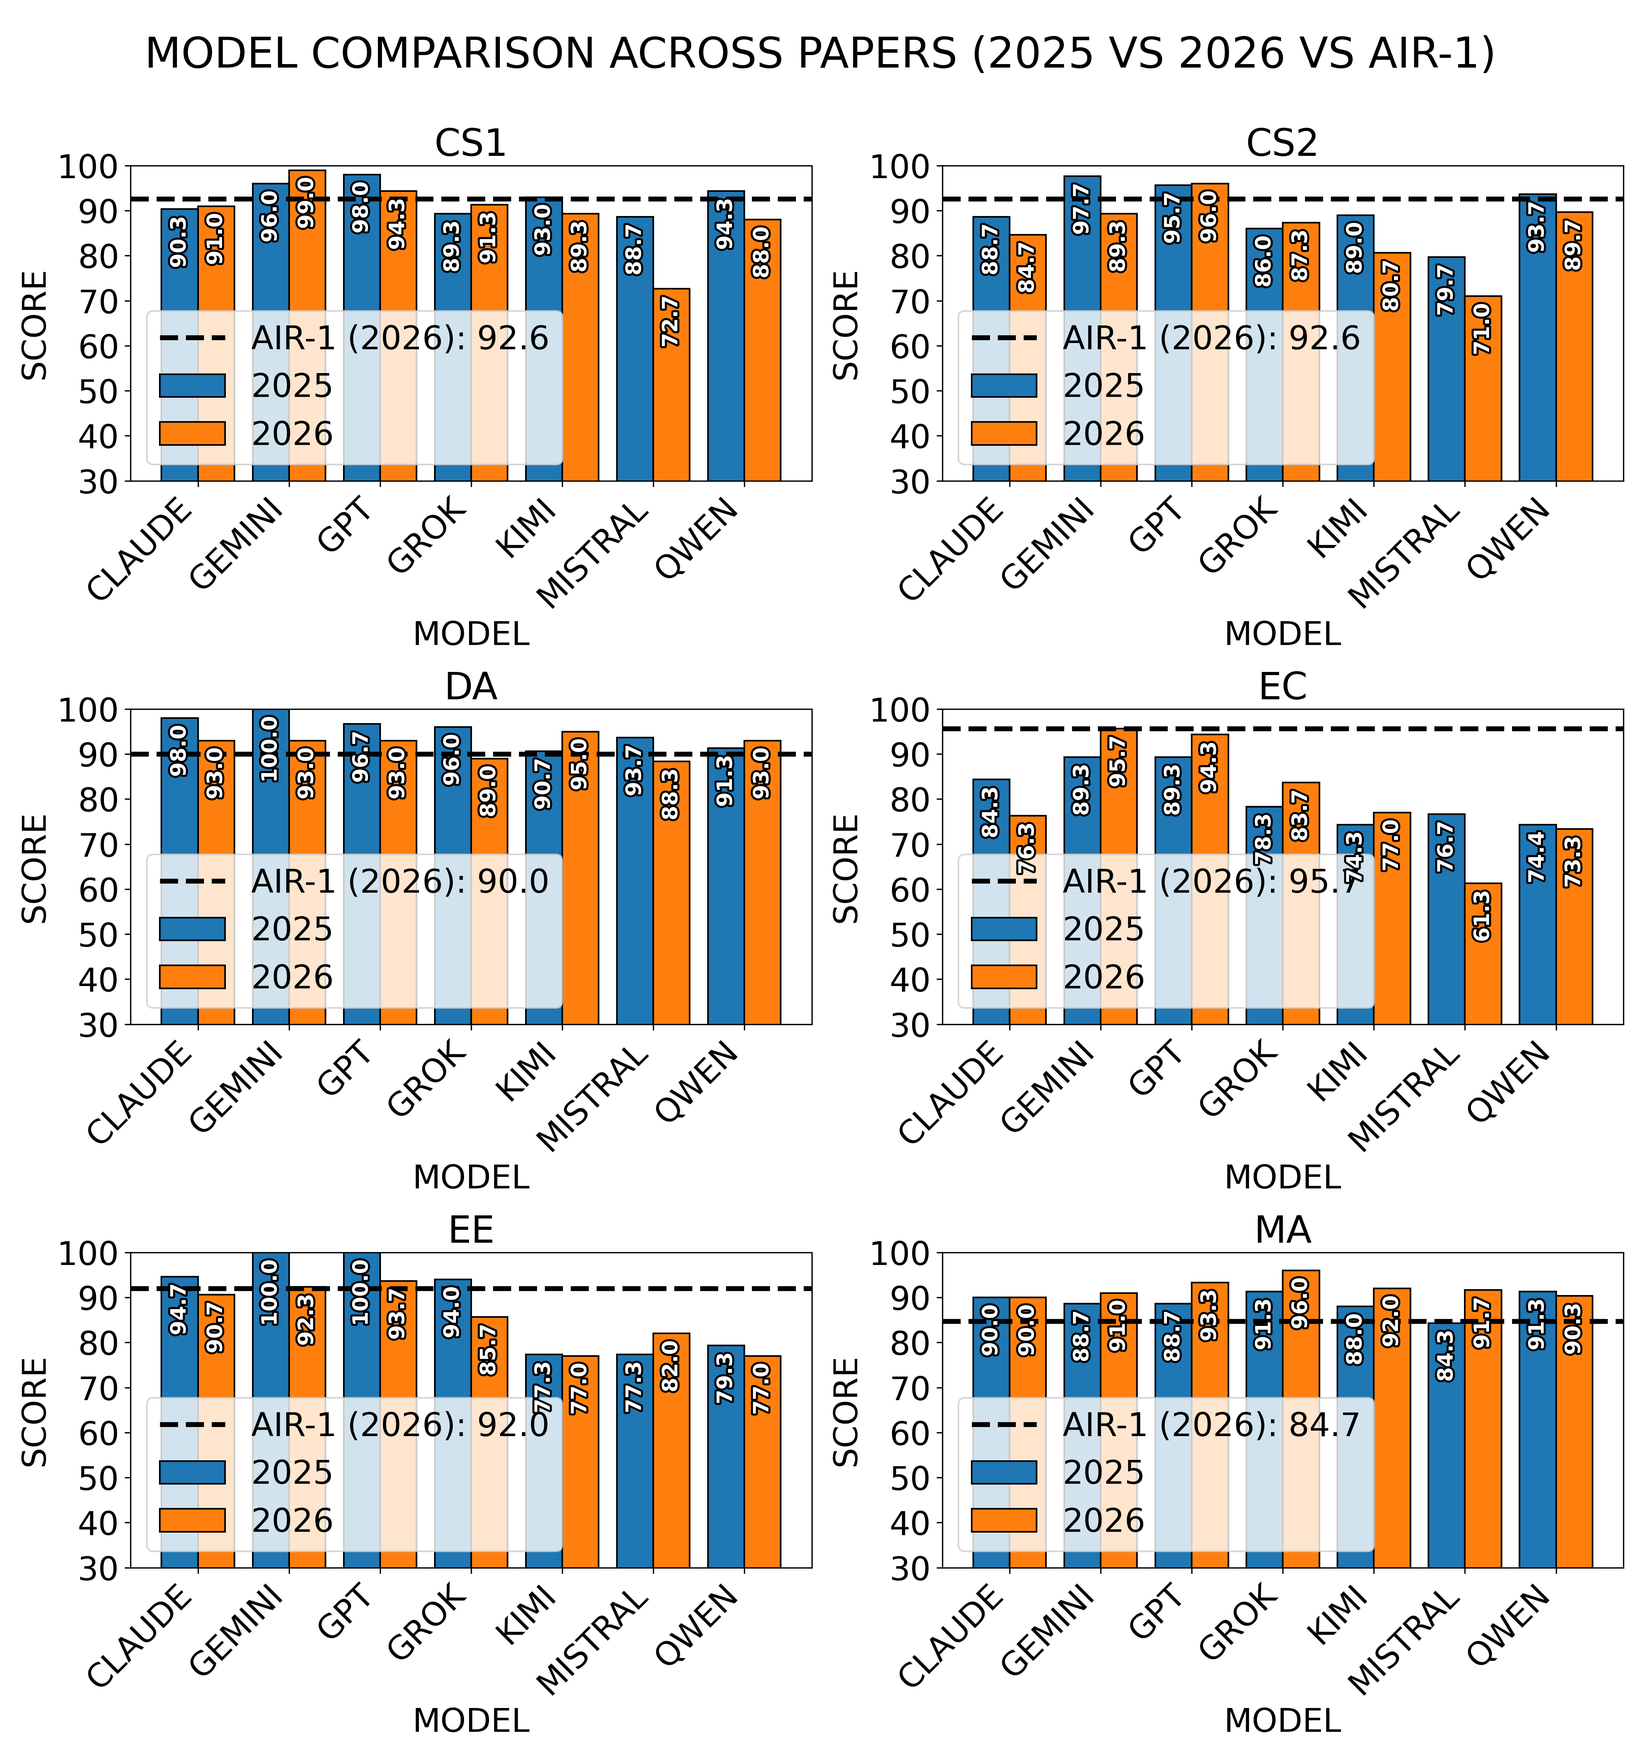
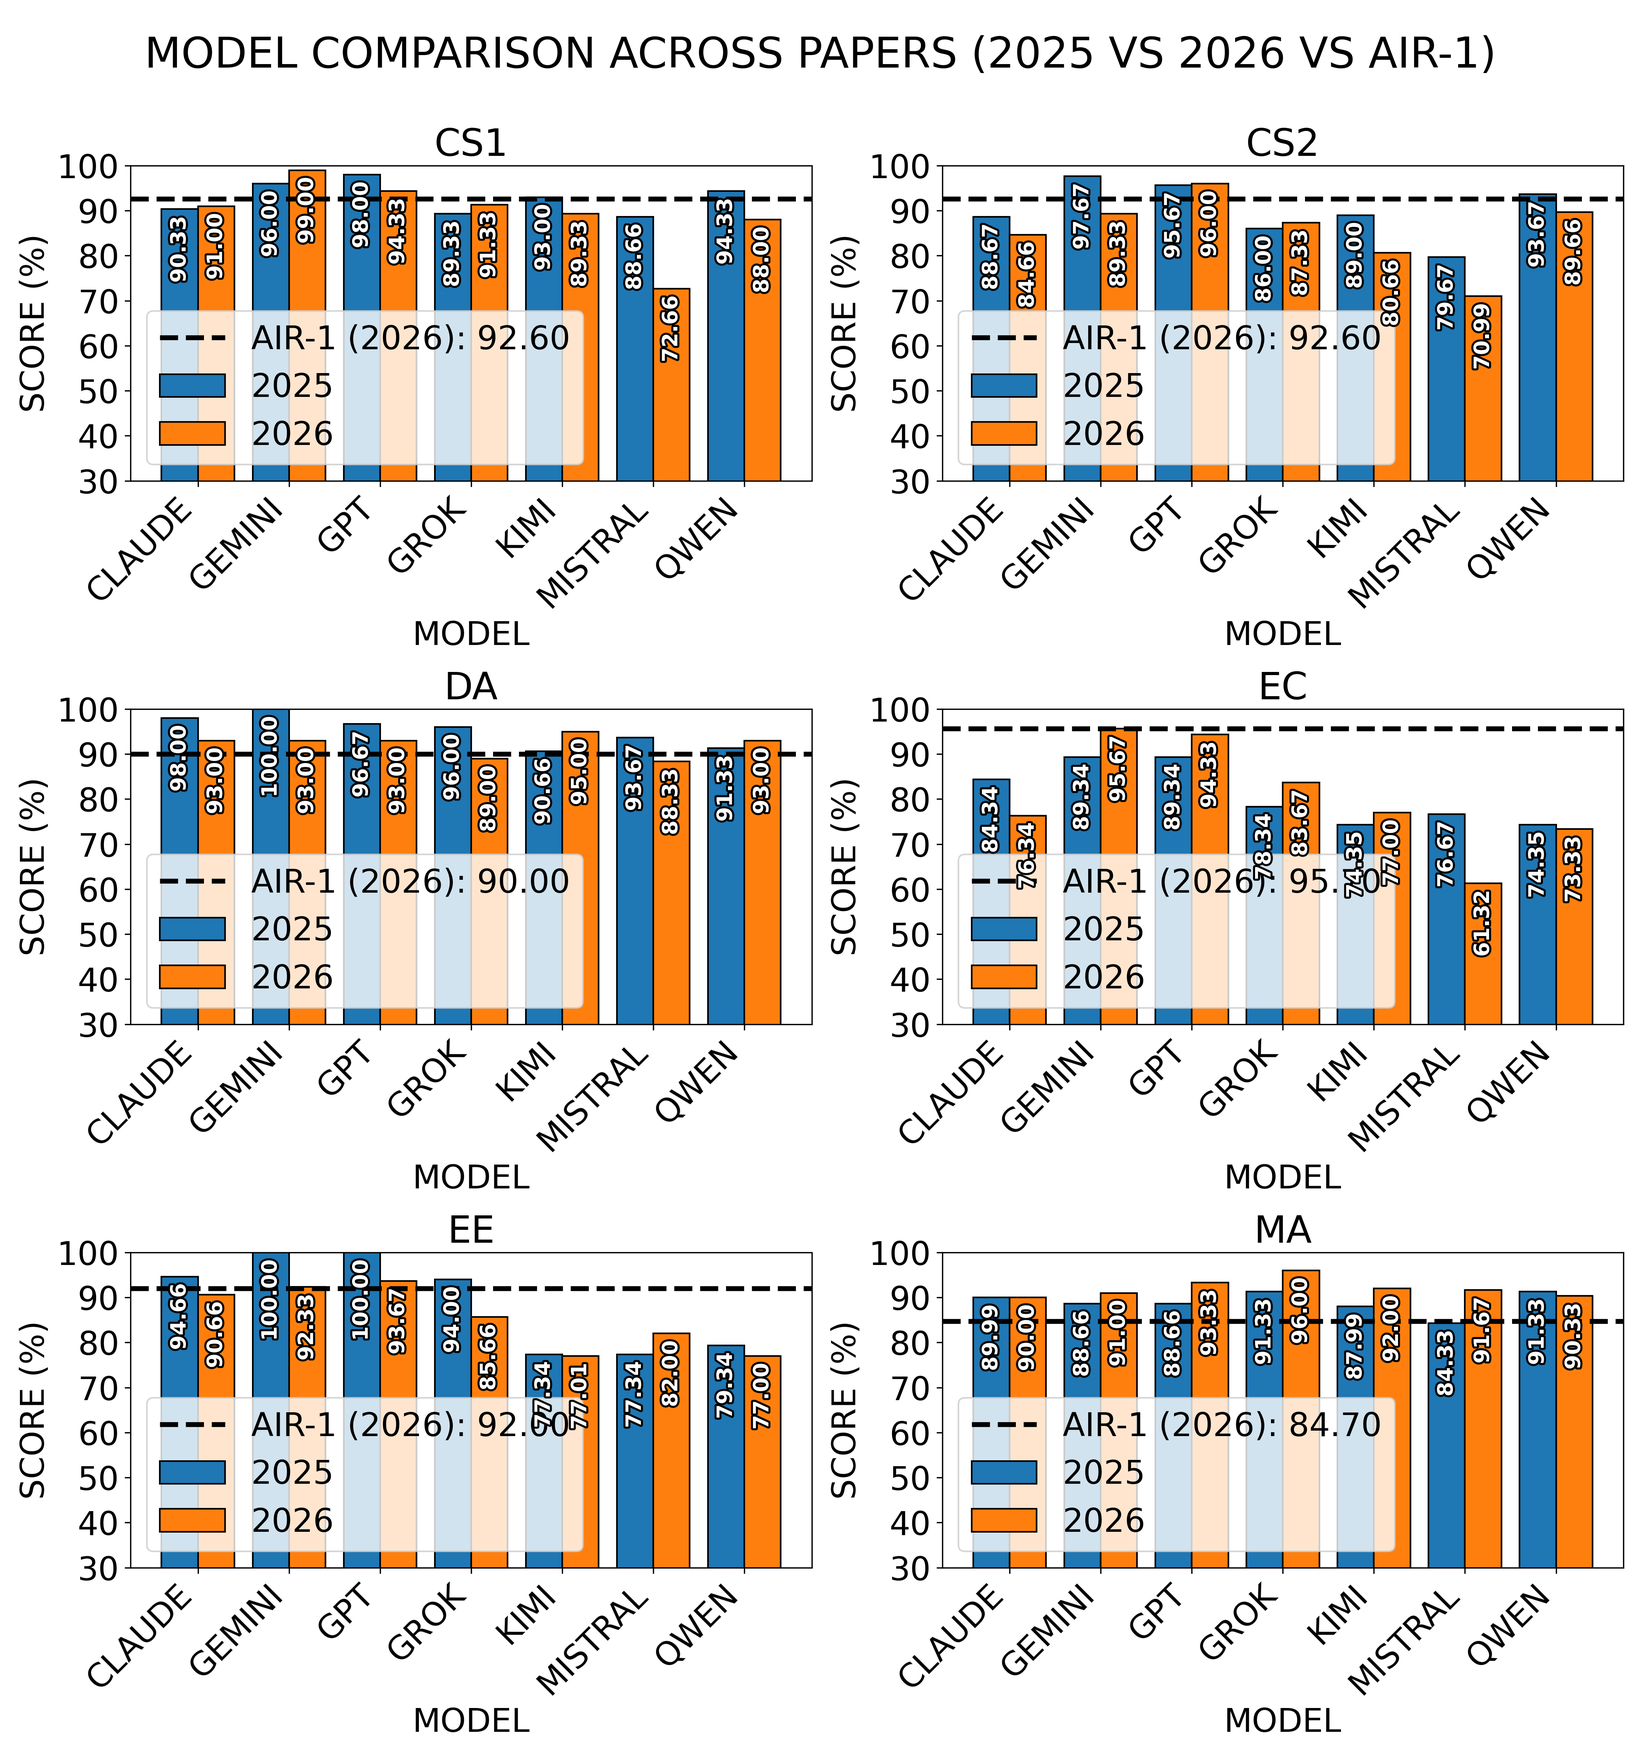
minor plot fixes

diff --git a/gatebench/plot_figures.py b/gatebench/plot_figures.py
@@ -1,16 +1,10 @@
 """
 Generate Figures 1-9 of the paper from results/.
 
-Two families of figures, matching the paper's own metric choices:
-  - "SCORE" figures (overall model performance, subject averages, GA vs
-    subject) use pooled marks-percent: sum(marks_obtained, treating a
-    null/unattempted question as 0) / sum(marks) * 100. This bakes in
-    GATE's official negative marking for wrong MCQ answers.
-  - "ACCURACY" figures (image vs no-image, question-type) use plain
-    correct / (correct + wrong) over scorable, attempted questions only
-    (is_correct is True or False) -- unattempted/unscorable (voided,
-    unparseable) questions are excluded from both sides rather than counted
-    as wrong, matching how "accuracy" reads in the paper.
+Every figure reports the same metric: pooled marks-percent,
+sum(marks_obtained, treating a null/unattempted question as 0) /
+sum(marks) * 100. This bakes in GATE's official negative marking for wrong
+MCQ answers and counts voided "marks to all" questions as full marks.
 
 AIR-1 scores are external reference data read from data/air1_scores.json.
 
@@ -61,11 +55,11 @@ def compute_all():
     score_by_paper_year = defaultdict(lambda: [0.0, 0.0])
     score_by_paper_model_year = defaultdict(lambda: [0.0, 0.0])
 
-    img_acc_by_model_year = defaultdict(lambda: [0, 0])
-    img_acc_by_paper_year = defaultdict(lambda: [0, 0])
+    img_score_by_model_year = defaultdict(lambda: [0.0, 0.0])
+    img_score_by_paper_year = defaultdict(lambda: [0.0, 0.0])
 
-    qtype_acc_by_model = defaultdict(lambda: [0, 0])
-    qtype_acc_by_paper = defaultdict(lambda: [0, 0])
+    qtype_score_by_model = defaultdict(lambda: [0.0, 0.0])
+    qtype_score_by_paper = defaultdict(lambda: [0.0, 0.0])
 
     ga_by_model_year = defaultdict(lambda: [0.0, 0.0])
     ga_by_paper_year = defaultdict(lambda: [0.0, 0.0])
@@ -87,32 +81,27 @@ def compute_all():
         ga_by_paper_year[(paper, year, ga_group)][0] += obtained
         ga_by_paper_year[(paper, year, ga_group)][1] += marks
 
-        if row["is_correct"] is None:
-            continue  # unattempted/unscorable -- excluded from accuracy figures
-
-        outcome_idx = 0 if row["is_correct"] else 1
         image_group = "IMAGE" if row["has_image"] else "NO IMAGE"
-
-        img_acc_by_model_year[(model_label, year, image_group)][outcome_idx] += 1
-        img_acc_by_paper_year[(paper, year, image_group)][outcome_idx] += 1
-        qtype_acc_by_model[(model_label, row["question_type"])][outcome_idx] += 1
-        qtype_acc_by_paper[(paper, row["question_type"])][outcome_idx] += 1
+        for agg, key in (
+            (img_score_by_model_year, (model_label, year, image_group)),
+            (img_score_by_paper_year, (paper, year, image_group)),
+            (qtype_score_by_model, (model_label, row["question_type"])),
+            (qtype_score_by_paper, (paper, row["question_type"])),
+        ):
+            agg[key][0] += obtained
+            agg[key][1] += marks
 
     def pct(obtained, possible):
         return 100 * obtained / possible if possible else 0.0
-
-    def acc(correct, wrong):
-        total = correct + wrong
-        return correct / total if total else 0.0
 
     return {
         "score_by_model_year": {k: pct(*v) for k, v in score_by_model_year.items()},
         "score_by_paper_year": {k: pct(*v) for k, v in score_by_paper_year.items()},
         "score_by_paper_model_year": {k: pct(*v) for k, v in score_by_paper_model_year.items()},
-        "img_acc_by_model_year": {k: acc(*v) for k, v in img_acc_by_model_year.items()},
-        "img_acc_by_paper_year": {k: acc(*v) for k, v in img_acc_by_paper_year.items()},
-        "qtype_acc_by_model": {k: acc(*v) for k, v in qtype_acc_by_model.items()},
-        "qtype_acc_by_paper": {k: acc(*v) for k, v in qtype_acc_by_paper.items()},
+        "img_score_by_model_year": {k: pct(*v) for k, v in img_score_by_model_year.items()},
+        "img_score_by_paper_year": {k: pct(*v) for k, v in img_score_by_paper_year.items()},
+        "qtype_score_by_model": {k: pct(*v) for k, v in qtype_score_by_model.items()},
+        "qtype_score_by_paper": {k: pct(*v) for k, v in qtype_score_by_paper.items()},
         "ga_by_model_year": {k: pct(*v) for k, v in ga_by_model_year.items()},
         "ga_by_paper_year": {k: pct(*v) for k, v in ga_by_paper_year.items()},
     }
@@ -144,20 +133,20 @@ def plot_paper_model_grid(score_by_paper_model_year, air1):
         for bars in (bars_2025, bars_2026):
             for bar in bars:
                 ax.text(bar.get_x() + bar.get_width() / 2, bar.get_height() - 1.5,
-                        f"{bar.get_height():.1f}", ha="center", va="top",
+                        f"{bar.get_height():.2f}", ha="center", va="top",
                         rotation=90, fontsize=VALUE_SIZE, fontweight="bold",
                         color="white", zorder=6, path_effects=outline())
 
         ax.set_title(paper, fontsize=TITLE_SIZE)
         ax.set_xlabel("MODEL", fontsize=LABEL_SIZE)
-        ax.set_ylabel("SCORE", fontsize=LABEL_SIZE)
+        ax.set_ylabel("SCORE (%)", fontsize=LABEL_SIZE)
         ax.set_ylim(*YLIM)
         ax.set_yticks(np.arange(YLIM[0], YLIM[1] + 1, 10))
         ax.set_xticks(x)
         ax.set_xticklabels(MODELS, rotation=45, ha="right")
         ax.tick_params(axis="both", labelsize=TICK_SIZE)
         ax.legend([line, bars_2025, bars_2026],
-                  [f"AIR-1 (2026): {air1_score:.1f}", "2025", "2026"],
+                  [f"AIR-1 (2026): {air1_score:.2f}", "2025", "2026"],
                   loc="lower left", fontsize=LEGEND_SIZE)
 
     fig.suptitle("MODEL COMPARISON ACROSS PAPERS (2025 VS 2026 VS AIR-1)",
@@ -188,10 +177,10 @@ def main() -> None:
         "AVERAGE PERFORMANCE ACROSS MODELS BY TEST PAPERS\n"
         "(2025 VS 2026 VS AIR-1)",
         PAPERS, subject_series,
-        "TEST PAPERS", "AVERAGE SCORE", width=0.25, fmt=".1f",
+        "TEST PAPERS", "AVERAGE SCORE (%)", width=0.25, fmt=".2f",
         ylim=(30, 100), rotation=0, **NARROW)
 
-    # --- Figures 3 & 4: image vs no-image accuracy -------------------------
+    # --- Figures 3 & 4: image vs no-image score -------------------------
     IMG_SERIES = ["IMAGE 2025", "NO IMAGE 2025", "IMAGE 2026", "NO IMAGE 2026"]
     IMG_COLORS = [BLUE, TEAL, ORANGE, RED]
     img_series_specs = [
@@ -203,34 +192,34 @@ def main() -> None:
 
     grouped_bar(
         out, "paperwise_image_vs_noimage_2025_vs_2026.png",
-        "PAPERWISE IMAGE VS NO IMAGE ACCURACY (2025 VS 2026)", PAPERS,
-        [(label, color, [data["img_acc_by_paper_year"].get((p, year, group), 0.0) for p in PAPERS])
+        "PAPERWISE IMAGE VS NO IMAGE SCORE (2025 VS 2026)", PAPERS,
+        [(label, color, [data["img_score_by_paper_year"].get((p, year, group), 0.0) for p in PAPERS])
          for label, color, year, group in img_series_specs],
-        "TEST PAPERS", "AVERAGE ACCURACY", width=0.18, **WIDE)
+        "TEST PAPERS", "AVERAGE SCORE (%)", width=0.18, ylim=(0, 100), **WIDE)
 
     grouped_bar(
         out, "modelwise_image_vs_noimage_2025_vs_2026.png",
-        "MODELWISE IMAGE VS NO IMAGE ACCURACY (2025 VS 2026)", MODELS,
-        [(label, color, [data["img_acc_by_model_year"].get((m, year, group), 0.0) for m in MODELS])
+        "MODELWISE IMAGE VS NO IMAGE SCORE (2025 VS 2026)", MODELS,
+        [(label, color, [data["img_score_by_model_year"].get((m, year, group), 0.0) for m in MODELS])
          for label, color, year, group in img_series_specs],
-        "MODEL", "AVERAGE ACCURACY", width=0.18, **WIDE)
+        "MODEL", "AVERAGE SCORE (%)", width=0.18, ylim=(0, 100), **WIDE)
 
-    # --- Figures 5 & 6: question-type accuracy -----------------------------
+    # --- Figures 5 & 6: question-type score -----------------------------
     QCOLORS = [BLUE, ORANGE, GREEN]
 
     grouped_bar(
         out, "modelwise_question_type_accuracy.png",
-        "MODELWISE QUESTION TYPE ACCURACY", MODELS,
+        "MODELWISE QUESTION TYPE SCORE", MODELS,
         list(zip(QTYPES, QCOLORS,
-                 [[data["qtype_acc_by_model"].get((m, qt), 0.0) for m in MODELS] for qt in QTYPES])),
-        "MODEL", "AVERAGE ACCURACY", width=0.8 / 3, **WIDE)
+                 [[data["qtype_score_by_model"].get((m, qt), 0.0) for m in MODELS] for qt in QTYPES])),
+        "MODEL", "AVERAGE SCORE (%)", width=0.8 / 3, ylim=(0, 100), **WIDE)
 
     grouped_bar(
         out, "paperwise_question_type_accuracy.png",
-        "PAPERWISE QUESTION TYPE ACCURACY", PAPERS,
+        "PAPERWISE QUESTION TYPE SCORE", PAPERS,
         list(zip(QTYPES, QCOLORS,
-                 [[data["qtype_acc_by_paper"].get((p, qt), 0.0) for p in PAPERS] for qt in QTYPES])),
-        "TEST PAPERS", "AVERAGE ACCURACY", width=0.8 / 3, **WIDE)
+                 [[data["qtype_score_by_paper"].get((p, qt), 0.0) for p in PAPERS] for qt in QTYPES])),
+        "TEST PAPERS", "AVERAGE SCORE (%)", width=0.8 / 3, ylim=(0, 100), **WIDE)
 
     # --- Figures 7 & 8: General Aptitude vs subject ------------------------
     GA_SERIES = ["GA 2025", "SUBJECT 2025", "GA 2026", "SUBJECT 2026"]
@@ -244,19 +233,19 @@ def main() -> None:
 
     grouped_bar(
         out, "modelwise_ga_vs_subject_2025_vs_2026.png",
-        "MODELWISE GENERAL APTITUDE VS SUBJECT MARKS PERCENT (2025 VS 2026)",
+        "MODELWISE GENERAL APTITUDE VS SUBJECT SCORE (%) (2025 VS 2026)",
         MODELS,
         [(label, color, [data["ga_by_model_year"].get((m, year, group), 0.0) for m in MODELS])
          for label, color, year, group in ga_series_specs],
-        "MODEL", "MARKS PERCENT", width=0.18, ylim=(0, 100), **WIDE)
+        "MODEL", "SCORE (%)", width=0.18, ylim=(0, 100), **WIDE)
 
     grouped_bar(
         out, "subjectwise_ga_vs_subject_2025_vs_2026.png",
-        "SUBJECTWISE GENERAL APTITUDE VS SUBJECT MARKS PERCENT (2025 VS 2026)",
+        "SUBJECTWISE GENERAL APTITUDE VS SUBJECT SCORE (%) (2025 VS 2026)",
         PAPERS,
         [(label, color, [data["ga_by_paper_year"].get((p, year, group), 0.0) for p in PAPERS])
          for label, color, year, group in ga_series_specs],
-        "TEST PAPERS", "MARKS PERCENT", width=0.18, ylim=(0, 100), **WIDE)
+        "TEST PAPERS", "SCORE (%)", width=0.18, ylim=(0, 100), **WIDE)
 
     # --- Figure 9: overall model performance -------------------------------
     grouped_bar(
@@ -265,7 +254,7 @@ def main() -> None:
         [(year, {"2025": BLUE, "2026": ORANGE}[year],
           [data["score_by_model_year"][(m, year)] for m in MODELS])
          for year in YEARS],
-        "MODEL", "AVERAGE SCORE", width=0.35, fmt=".2f",
+        "MODEL", "AVERAGE SCORE (%)", width=0.35, fmt=".2f",
         ylim=(30, 100), legend_loc="lower left", **NARROW)
 
 

diff --git a/tables/cost_time_tables.tex b/tables/cost_time_tables.tex
@@ -8,12 +8,12 @@
 \toprule
 \textbf{Paper} & \textbf{CLAUDE} & \textbf{GEMINI} & \textbf{GPT} & \textbf{GROK} & \textbf{KIMI} & \textbf{MISTRAL} & \textbf{QWEN} & \textbf{Average} \\
 \midrule
-CS1 & 0.477 / 0.651 & 2.71 / 3.56 & 1.31 / 1.54 & 0.315 / 0.443 & 1.53 / 1.89 & 0.091 / 0.108 & 1.04 / 2.02 & \textit{0.016 / 0.022} \\
-CS2 & 0.652 / 0.973 & 2.92 / 3.08 & 1.74 / 2.21 & 0.339 / 0.379 & 1.57 / 2.11 & 0.148 / 0.112 & 1.23 / 1.27 & \textit{0.019 / 0.022} \\
-DA & 0.413 / 0.477 & 2.26 / 2.73 & 0.971 / 1.44 & 0.226 / 0.307 & 0.832 / 1.15 & 0.080 / 0.092 & 1.08 / 1.46 & \textit{0.013 / 0.017} \\
-EC & 0.758 / 1.42 & 3.78 / 4.07 & 1.86 / 1.87 & 0.300 / 0.347 & 2.35 / 2.37 & 0.107 / 0.125 & 1.30 / 1.38 & \textit{0.023 / 0.025} \\
-EE & 0.661 / 2.19 & 3.12 / 3.97 & 1.40 / 2.19 & 0.290 / 0.288 & 2.07 / 2.80 & 0.105 / 0.115 & 1.17 / 1.29 & \textit{0.019 / 0.028} \\
-MA & 0.918 / 0.471 & 3.53 / 2.26 & 2.21 / 1.48 & 0.347 / 0.319 & 1.59 / 1.20 & 0.149 / 0.103 & 1.46 / 1.28 & \textit{0.022 / 0.016} \\
+CS1 & 0.477 / 0.651 & 2.712 / 3.565 & 1.305 / 1.543 & 0.315 / 0.443 & 1.528 / 1.890 & 0.091 / 0.108 & 1.036 / 2.017 & \textit{0.016 / 0.022} \\
+CS2 & 0.652 / 0.973 & 2.918 / 3.079 & 1.739 / 2.212 & 0.339 / 0.379 & 1.569 / 2.110 & 0.148 / 0.112 & 1.230 / 1.271 & \textit{0.019 / 0.022} \\
+DA & 0.413 / 0.477 & 2.257 / 2.732 & 0.971 / 1.444 & 0.226 / 0.307 & 0.832 / 1.145 & 0.080 / 0.092 & 1.079 / 1.458 & \textit{0.013 / 0.017} \\
+EC & 0.758 / 1.416 & 3.781 / 4.073 & 1.861 / 1.872 & 0.300 / 0.347 & 2.354 / 2.366 & 0.107 / 0.125 & 1.300 / 1.378 & \textit{0.023 / 0.025} \\
+EE & 0.661 / 2.191 & 3.121 / 3.974 & 1.400 / 2.190 & 0.290 / 0.288 & 2.073 / 2.796 & 0.105 / 0.115 & 1.169 / 1.287 & \textit{0.019 / 0.028} \\
+MA & 0.918 / 0.471 & 3.526 / 2.258 & 2.209 / 1.477 & 0.347 / 0.319 & 1.587 / 1.198 & 0.149 / 0.103 & 1.457 / 1.278 & \textit{0.022 / 0.016} \\
 \midrule
 \textbf{Average} & \textit{0.010 / 0.016} & \textit{0.047 / 0.050} & \textit{0.024 / 0.028} & \textit{0.005 / 0.005} & \textit{0.025 / 0.029} & \textit{0.002 / 0.002} & \textit{0.019 / 0.022} & \textit{0.019 / 0.022} \\
 \bottomrule

diff --git a/gatebench/plot_single_model_ga.py b/gatebench/plot_single_model_ga.py
@@ -49,13 +49,13 @@ def main() -> None:
     grouped_bar(
         str(FIGURES_DIR),
         f"{model_dir}_ga_vs_subject_2025_vs_2026.png",
-        f"{label} GENERAL APTITUDE VS SUBJECT MARKS PERCENT (2025 VS 2026)",
+        f"{label} GENERAL APTITUDE VS SUBJECT SCORE (%) (2025 VS 2026)",
         PAPERS,
         [("GA 2025", BLUE, [pct(p, "2025", "GA") for p in PAPERS]),
          ("SUBJECT 2025", TEAL, [pct(p, "2025", "SUBJECT") for p in PAPERS]),
          ("GA 2026", ORANGE, [pct(p, "2026", "GA") for p in PAPERS]),
          ("SUBJECT 2026", RED, [pct(p, "2026", "SUBJECT") for p in PAPERS])],
-        "TEST PAPERS", "MARKS PERCENT", width=0.18, ylim=(0, 100), **WIDE)
+        "TEST PAPERS", "SCORE (%)", width=0.18, ylim=(0, 100), **WIDE)
 
 
 if __name__ == "__main__":

diff --git a/gatebench/plot_cost_time.py b/gatebench/plot_cost_time.py
@@ -215,7 +215,7 @@ def main() -> None:
     plot_grid(
         "combined_model_comparison_2025_vs_2026_time.png",
         "TOTAL GENERATION TIME BY PAPER (2025 VS 2026)",
-        "TOTAL TIME (min)", time_total_min, fmt=".1f",
+        "TOTAL TIME (min)", time_total_min, fmt=".2f",
         reference_line=EXAM_DURATION_MIN,
         reference_label=f"{EXAM_DURATION_MIN} min (exam duration)",
     )

diff --git a/gatebench/build_tables.py b/gatebench/build_tables.py
@@ -84,7 +84,7 @@ def build_table(total_dict, avg_model_dict, avg_paper_dict, grand_avg, fmt,
 
 
 def cost_fmt(v: float) -> str:
-    return f"{v:.3f}" if v < 1 else f"{v:.2f}"
+    return f"{v:.3f}"
 
 
 def time_fmt(v: float) -> str:

diff --git a/README.md b/README.md
@@ -44,10 +44,10 @@ Each figure below is written to `figures/` by `make figures`.
 |---|---|
 | **Fig. 1** — per-paper model scores vs AIR-1 | `combined_model_comparison_2025_vs_2026_vs_air1_3x2.png` |
 | **Fig. 2** — average performance per test paper | `subject_average_across_models_2025_vs_2026.png` |
-| **Fig. 3** — subject-wise image vs no-image accuracy | `paperwise_image_vs_noimage_2025_vs_2026.png` |
-| **Fig. 4** — model-wise image vs no-image accuracy | `modelwise_image_vs_noimage_2025_vs_2026.png` |
-| **Fig. 5** — model-wise MCQ/MSQ/NAT accuracy | `modelwise_question_type_accuracy.png` |
-| **Fig. 6** — paper-wise MCQ/MSQ/NAT accuracy | `paperwise_question_type_accuracy.png` |
+| **Fig. 3** — subject-wise image vs no-image score | `paperwise_image_vs_noimage_2025_vs_2026.png` |
+| **Fig. 4** — model-wise image vs no-image score | `modelwise_image_vs_noimage_2025_vs_2026.png` |
+| **Fig. 5** — model-wise MCQ/MSQ/NAT score | `modelwise_question_type_accuracy.png` |
+| **Fig. 6** — paper-wise MCQ/MSQ/NAT score | `paperwise_question_type_accuracy.png` |
 | **Fig. 7** — model-wise General Aptitude vs subject | `modelwise_ga_vs_subject_2025_vs_2026.png` |
 | **Fig. 8** — paper-wise General Aptitude vs subject | `subjectwise_ga_vs_subject_2025_vs_2026.png` |
 | **Fig. 9** — overall model average across papers | `overall_model_performance_2025_vs_2026.png` |
@@ -108,9 +108,10 @@ The official GATE scheme, implemented in `gatebench/scoring.py`:
 - **Unparseable or unattempted** — scored as null rather than wrong, so a parsing gap is
   never silently counted as a model error
 
-Figures reporting a *score* use pooled marks-percent (negative marking included). Figures
-reporting *accuracy* use correct / (correct + wrong) over attempted, scorable questions
-only.
+Every figure reports a *score*: pooled marks-percent, i.e. total marks obtained divided by
+total marks available, times 100. Negative marking is included, unattempted or unparseable
+questions contribute 0 marks, and voided questions count as full marks. No figure reports
+question-level accuracy.
 
 ---
 

diff --git a/data/README.md b/data/README.md
@@ -89,7 +89,7 @@ Model directory names are the full model identifiers, e.g.
 `null` is not a synonym for "wrong". It means the answer could not be scored, which covers
 three distinct situations: the model produced no parseable answer, the answer was not a
 valid option for that question type, or the question was voided. Treating null as wrong
-would understate every model's accuracy.
+would understate every model's score.
 
 ## `air1_scores.json`
 
